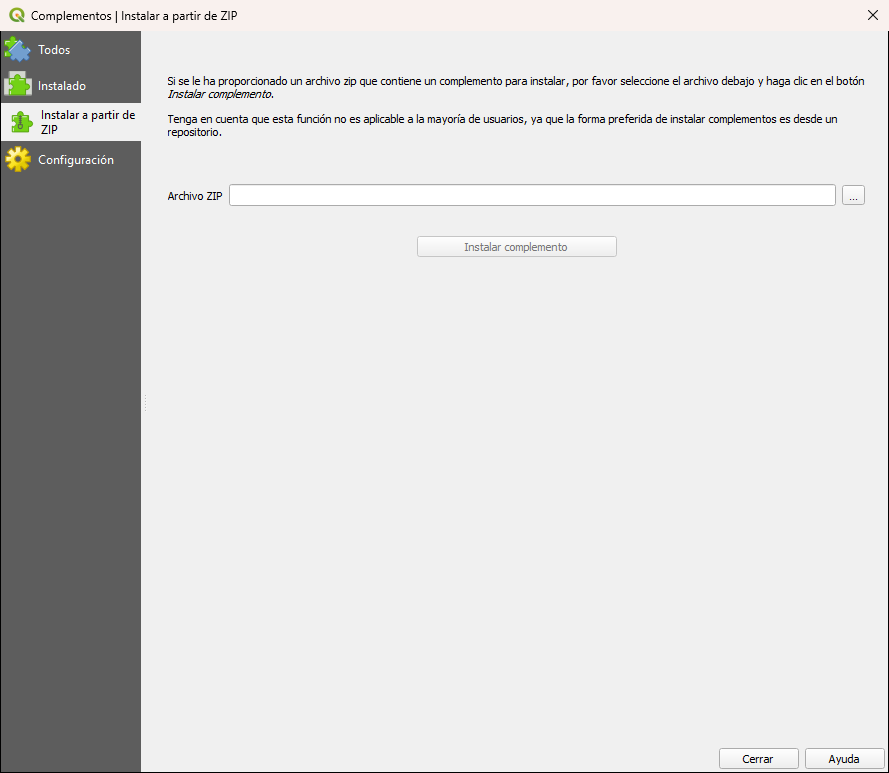
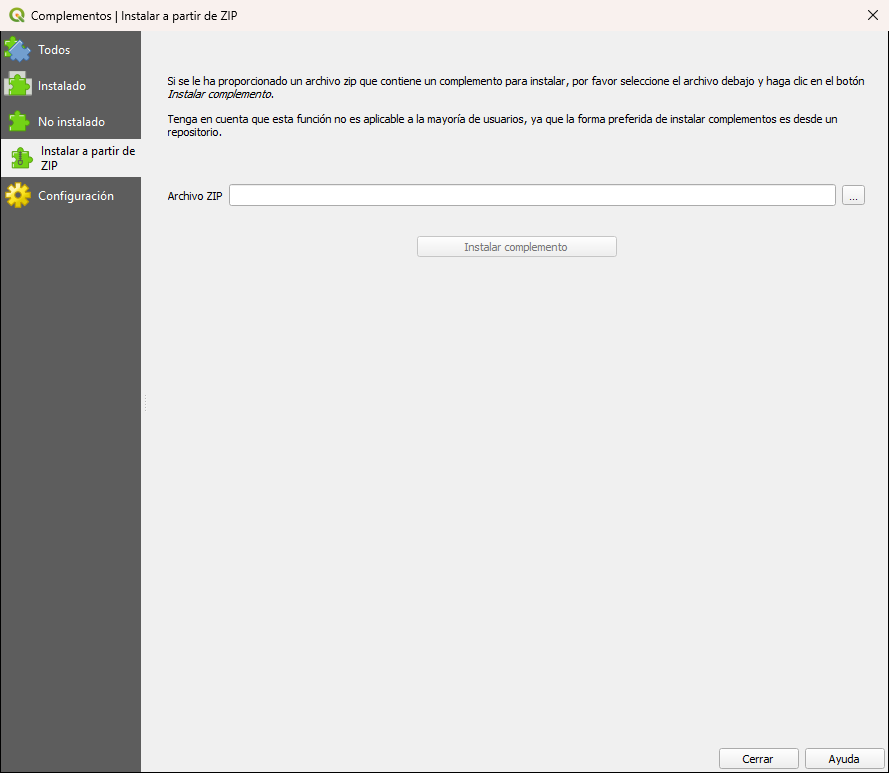
Documentar la búsqueda de QGISRed en el repositorio oficial y robustecer capture.py frente a listas dinámicas

Changed region(s): [[0.0, 0.1242, 0.1822, 0.2794]]

diff --git a/scripts/capture.py b/scripts/capture.py
@@ -34,7 +34,7 @@ try:
     import win32process
     import win32ui
     from PIL import Image
-    from pywinauto import Application, mouse
+    from pywinauto import Application, keyboard, mouse
 except ImportError:
     sys.exit("Run: pip install pywinauto pywin32 Pillow")
 
@@ -529,6 +529,67 @@ def run_entry(entry: dict, lang: str, main_hwnd: int):
             y = t + int(h * step["y_frac"])
             mouse.click(coords=(x, y))
             time.sleep(1)
+        elif stype == "type_relative":
+            # Same rationale as click_relative: click a field with no
+            # accessible name/role, then type into it via real keyboard
+            # (requires an attached interactive desktop session).
+            dlg_hwnd = _find_dialog_window(main_hwnd, step.get("window_title_contains"))
+            if dlg_hwnd is None:
+                raise RuntimeError(f"No dialog window found for type_relative step {step!r}")
+            l, t, r, b = win32gui.GetWindowRect(dlg_hwnd)
+            w, h = r - l, b - t
+            x = l + int(w * step["x_frac"])
+            y = t + int(h * step["y_frac"])
+            mouse.click(coords=(x, y))
+            time.sleep(0.3)
+            keyboard.send_keys(step["text"], with_spaces=True)
+            time.sleep(1.5)
+        elif stype == "click_list_item_from_end":
+            # For sidebar/list widgets with no accessible tree whose ITEM
+            # COUNT varies at runtime (e.g. QGIS's own Plugin Manager: the
+            # category list only grows to its full size once the plugin
+            # repository has been fetched — cold vs warm cache differ by 2
+            # extra rows, confirmed live, which silently broke a fixed
+            # y_frac click). Click a position known to always be item #0
+            # (to focus + select the list) then navigate with End/Up,
+            # which anchors from the LAST item instead — stable regardless
+            # of how many rows exist above it.
+            dlg_hwnd = _find_dialog_window(main_hwnd, step.get("window_title_contains"))
+            if dlg_hwnd is None:
+                raise RuntimeError(f"No dialog window found for click_list_item_from_end step {step!r}")
+            l, t, r, b = win32gui.GetWindowRect(dlg_hwnd)
+            w, h = r - l, b - t
+            x = l + int(w * step["first_item_x_frac"])
+            y = t + int(h * step["first_item_y_frac"])
+            mouse.click(coords=(x, y))
+            time.sleep(0.5)
+            keyboard.send_keys("{END}")
+            time.sleep(0.3)
+            for _ in range(step.get("offset_from_end", 0)):
+                keyboard.send_keys("{UP}")
+                time.sleep(0.2)
+            time.sleep(0.5)
+        elif stype == "send_keys":
+            # Generic fallback for any no-accessibility widget: optionally
+            # click a known-stable point first (e.g. to move focus into a
+            # list after filtering it), then send an arbitrary pywinauto
+            # key sequence. Used e.g. for Qt's built-in list type-ahead
+            # find ({TAB}Q jumps to the first item starting with "Q" —
+            # confirmed far more robust than clicking a fixed list
+            # position, which broke once a plugin-repository search
+            # started matching multiple unrelated plugins by description).
+            dlg_hwnd = _find_dialog_window(main_hwnd, step.get("window_title_contains"))
+            if dlg_hwnd is None:
+                raise RuntimeError(f"No dialog window found for send_keys step {step!r}")
+            if "x_frac" in step:
+                l, t, r, b = win32gui.GetWindowRect(dlg_hwnd)
+                w, h = r - l, b - t
+                x = l + int(w * step["x_frac"])
+                y = t + int(h * step["y_frac"])
+                mouse.click(coords=(x, y))
+                time.sleep(0.3)
+            keyboard.send_keys(step["keys"])
+            time.sleep(step.get("wait", 1))
         else:
             raise ValueError(f"Unknown step type: {stype!r}")
 

diff --git a/instalacion/desde-repositorio.md b/instalacion/desde-repositorio.md
@@ -12,6 +12,8 @@ Es el método recomendado. Instala QGISRed directamente desde el repositorio ofi
 4. Selecciona **QGISRed** en la lista de resultados.
 5. Haz clic en **Instalar complemento**.
 
+<figure><img src="../assets/images/instalacion/buscar-qgisred-repositorio.png" alt="Búsqueda de QGISRed en el repositorio oficial de complementos"><figcaption><p>Pestaña "Todos" del gestor de complementos con QGISRed localizado tras la búsqueda.</p></figcaption></figure>
+
 Al terminar, aparecerán en QGIS la barra principal de QGISRed y el menú **QGISRed** en la barra de menús.
 
 ---
